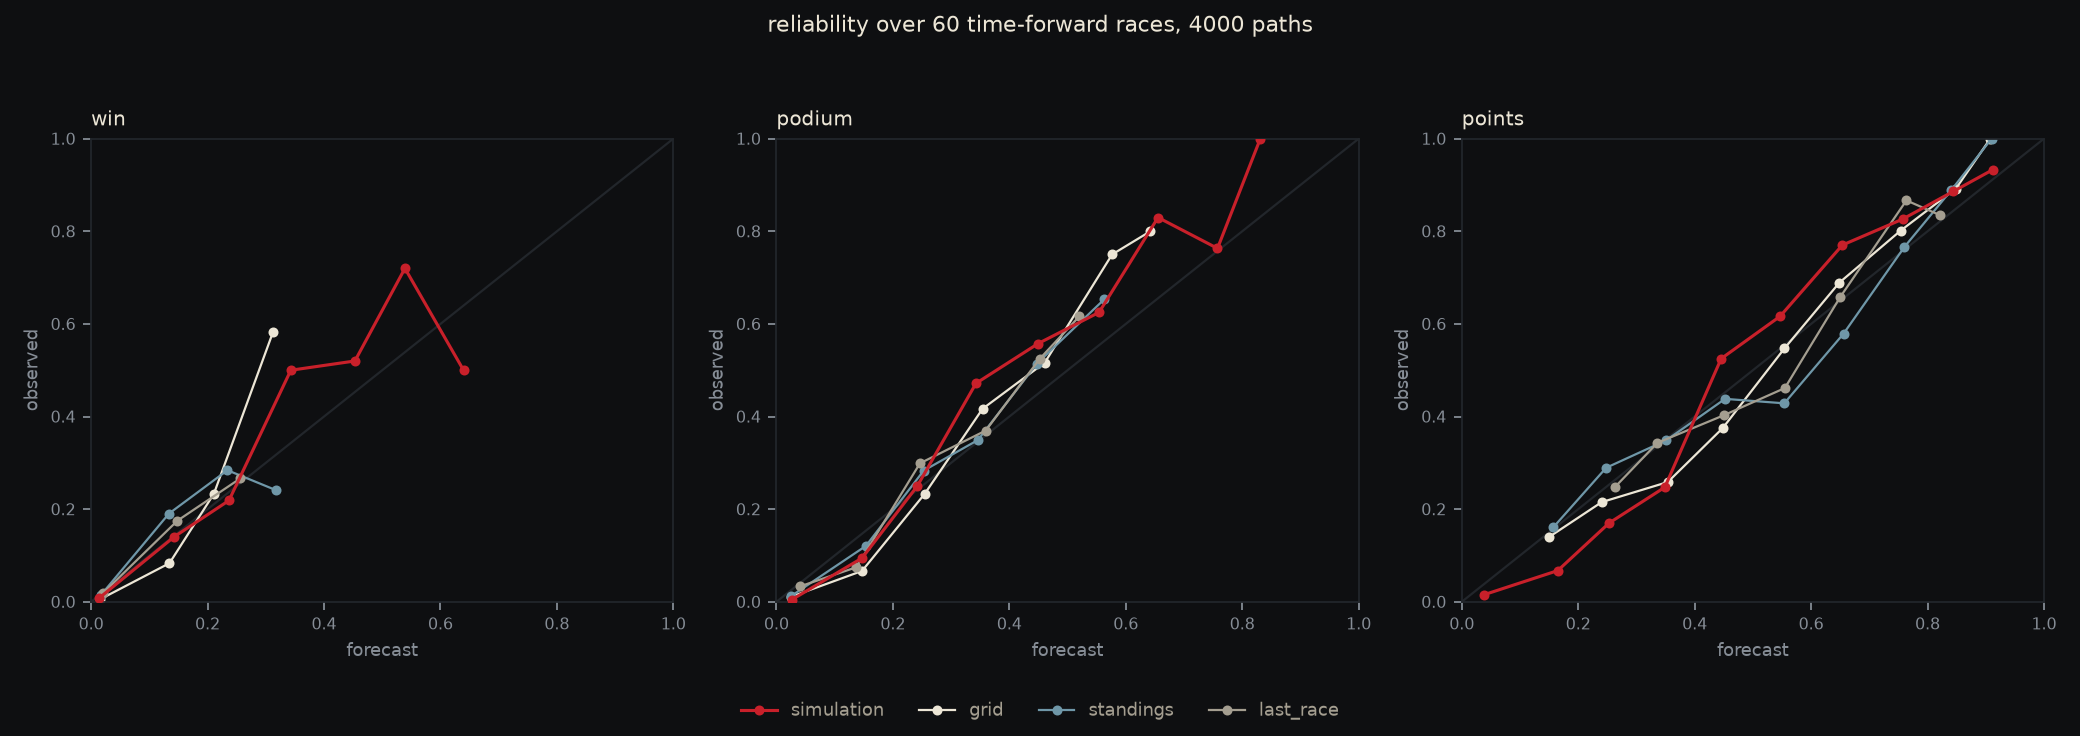
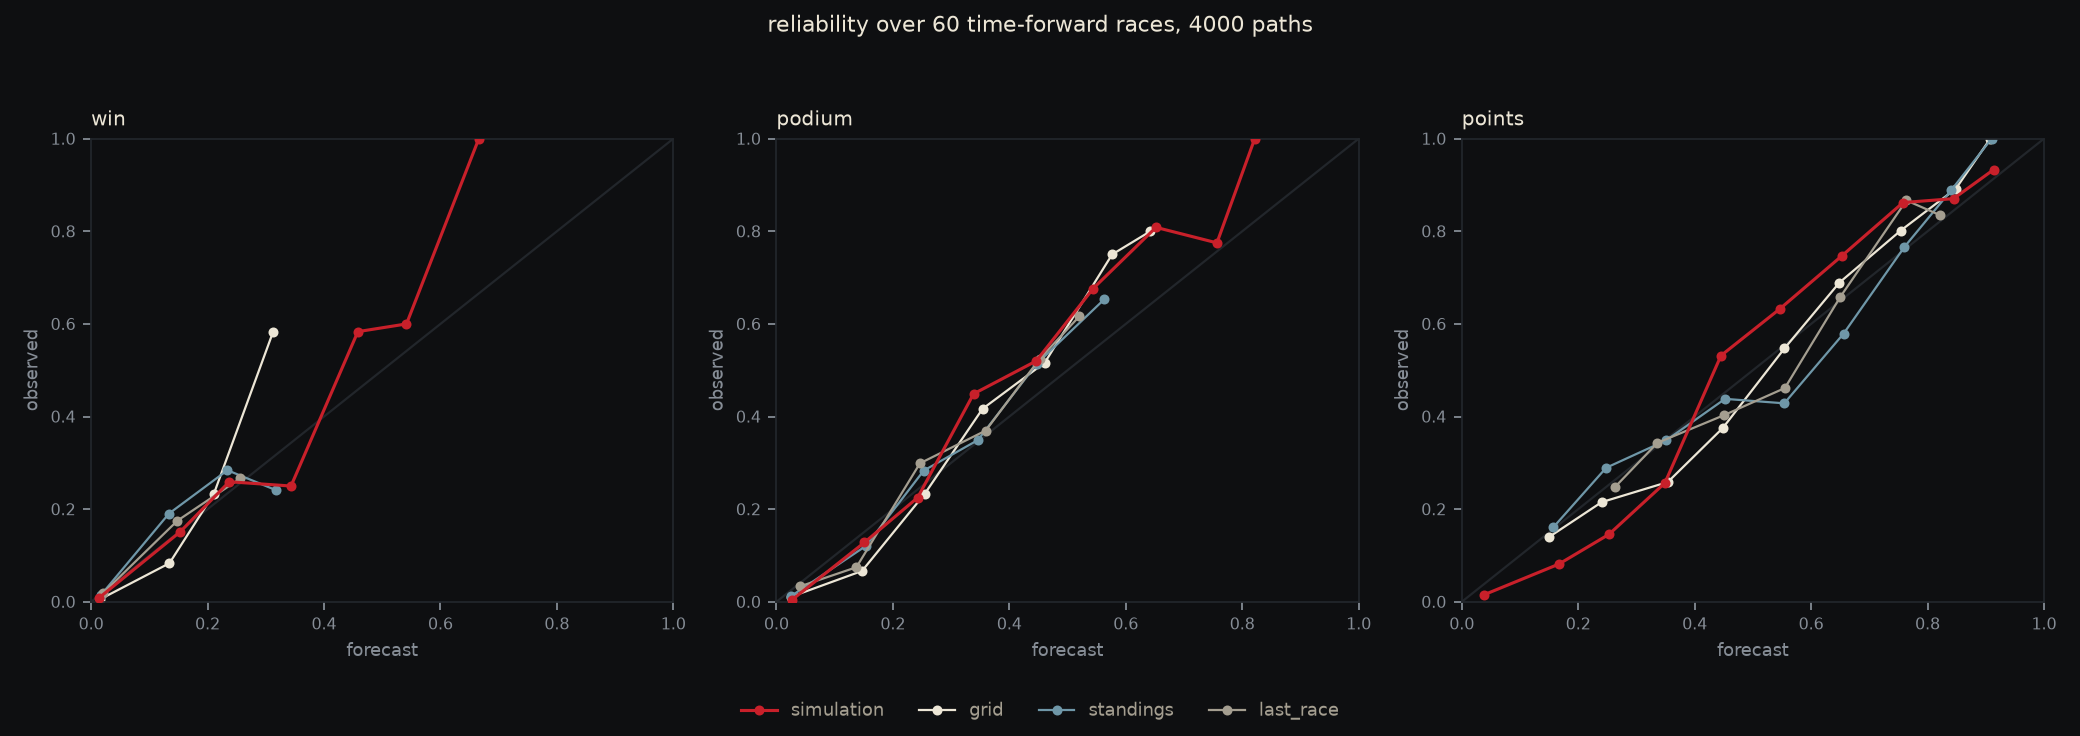
chore: rerun backtest on the rebuilt laps

diff --git a/README.md b/README.md
@@ -83,7 +83,7 @@ answer every time, which is the gate doing its job rather than a gate worth lowe
 The forecast clears its own bar too, though by less than a chart would suggest. The holdout is
 the last sixty races run, from the 2024 Chinese Grand Prix to the sixteenth round of 2026, so
 sixteen of them are in 2026's twenty-two-car field. The simulation's multiclass log loss is
-2.589 [2.545, 2.635], against 2.608 for grid position alone, 2.726 for championship standings
+2.589 [2.544, 2.634], against 2.608 for grid position alone, 2.726 for championship standings
 and 2.825 for last race's result. Resampled at the race
 level, it is separated from standings and from last race, and it is not separated from the grid
 on log loss, only on Brier: sixty races cannot tell the simulation and the starting order apart.
